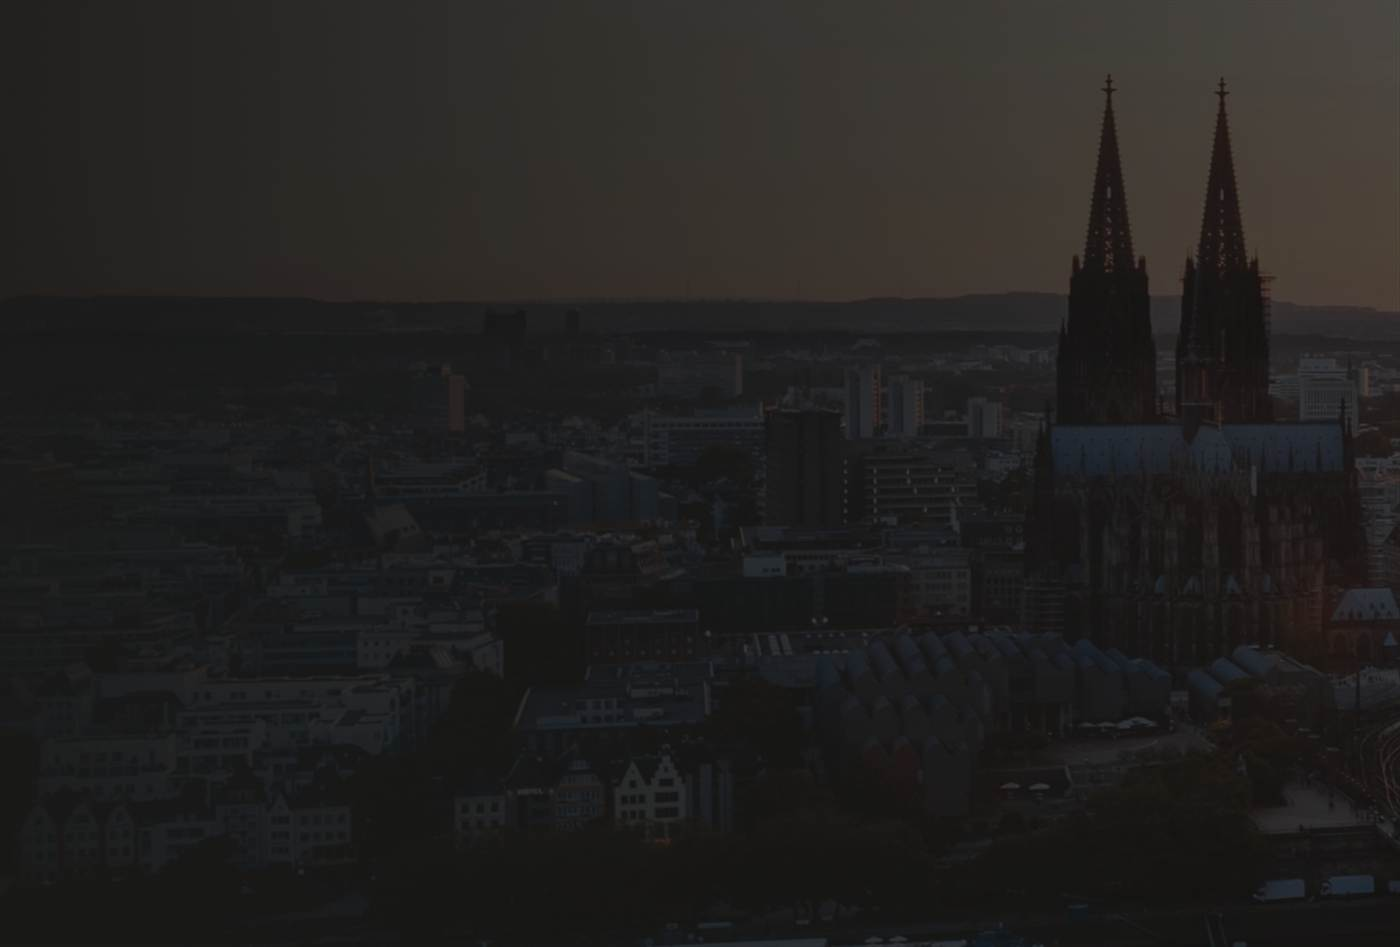
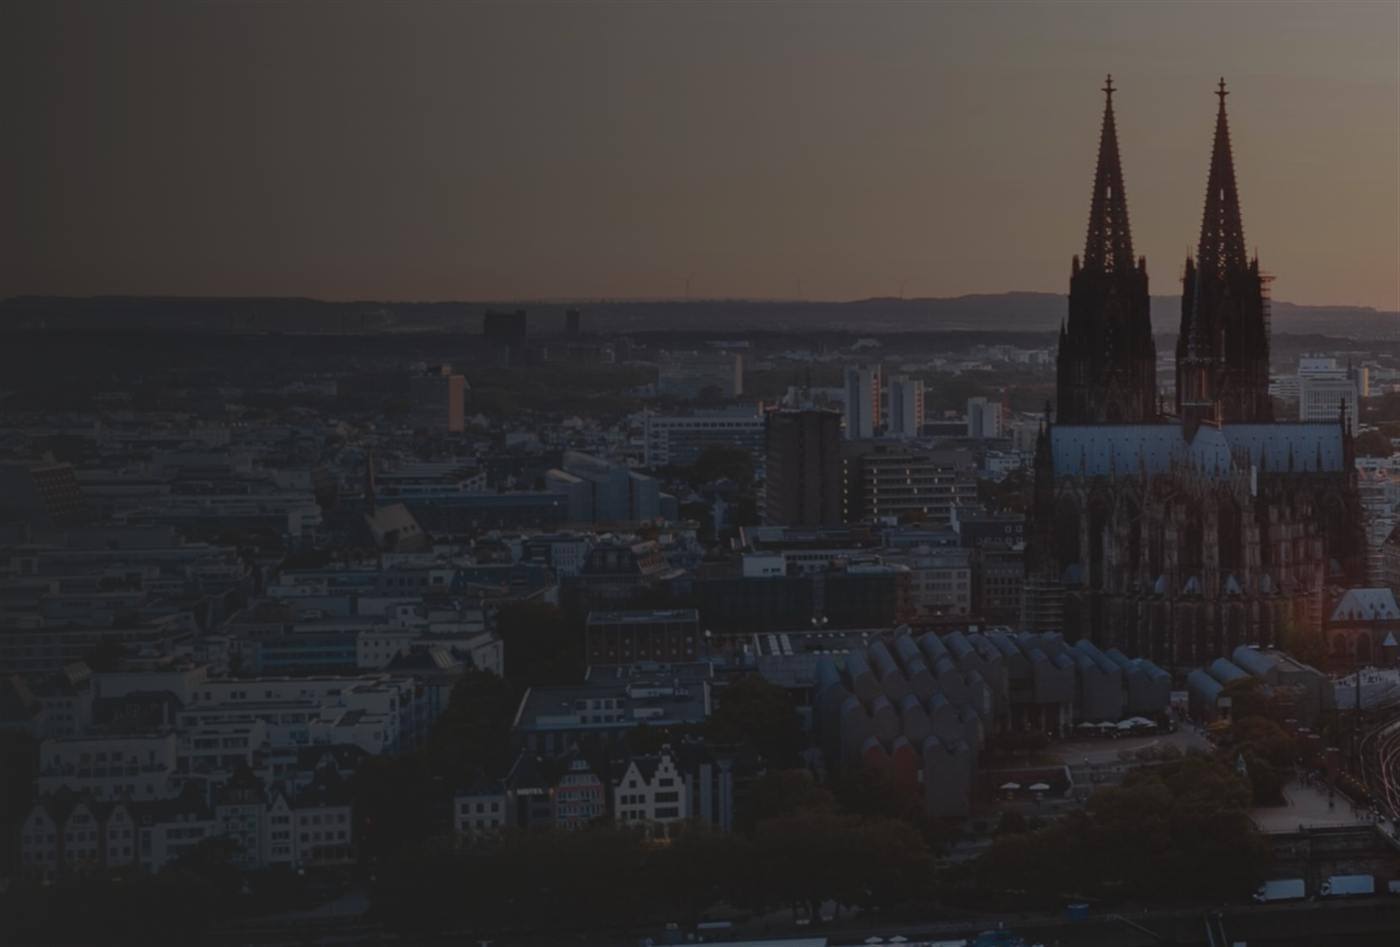
Koeln-Skyline im Hero deutlich sichtbarer: Bild heller aufbereitet (statt vorabgedunkelt), Deckkraft rauf, Verlaeufe zurueckgenommen - Dom klar erkennbar, Headline bleibt voll lesbar.

diff --git a/index.html b/index.html
@@ -68,8 +68,8 @@
   /* ---------- Hero (dunkel) ---------- */
   .hero{background:var(--ink);color:var(--paper);padding:0 28px;position:relative;overflow:hidden}
   .hero .wrap{position:relative;z-index:2;padding:130px 0 120px;display:flex;flex-direction:column;gap:0}
-  .hero-sky{position:absolute;inset:0;z-index:0;background:url(skyline.jpg) right bottom/cover no-repeat;opacity:.55;pointer-events:none}
-  .hero-sky::after{content:"";position:absolute;inset:0;background:linear-gradient(90deg,var(--ink) 6%,rgba(25,24,23,.78) 42%,rgba(25,24,23,.22) 100%),linear-gradient(0deg,rgba(25,24,23,.12) 0%,rgba(25,24,23,.5) 65%,var(--ink) 100%)}
+  .hero-sky{position:absolute;inset:0;z-index:0;background:url(skyline.jpg) right bottom/cover no-repeat;opacity:.85;pointer-events:none}
+  .hero-sky::after{content:"";position:absolute;inset:0;background:linear-gradient(90deg,var(--ink) 2%,rgba(25,24,23,.62) 38%,rgba(25,24,23,.05) 100%),linear-gradient(0deg,rgba(25,24,23,.05) 0%,rgba(25,24,23,.3) 65%,var(--ink) 100%)}
   .hero-grid{position:absolute;inset:0;pointer-events:none;opacity:.22;z-index:1;
     background-image:linear-gradient(var(--line-dark) 1px,transparent 1px),linear-gradient(90deg,var(--line-dark) 1px,transparent 1px);
     background-size:88px 88px}